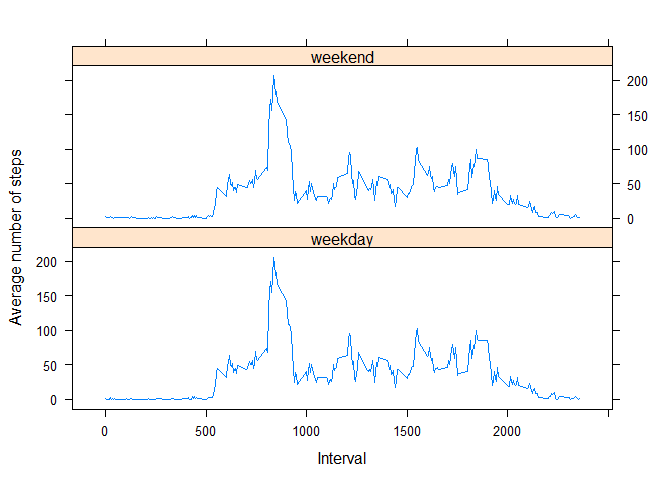
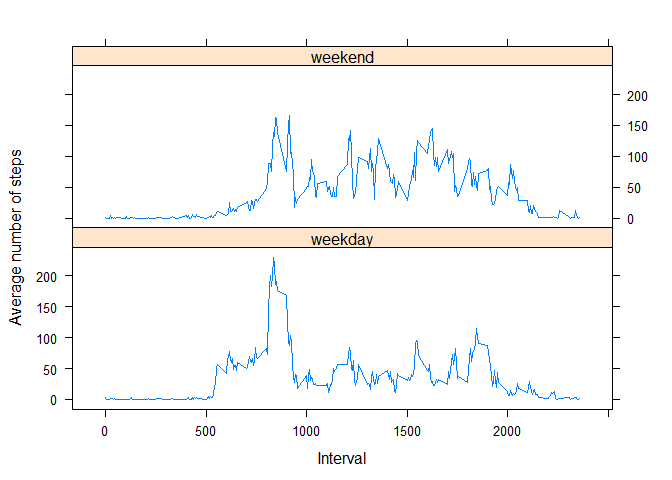
Nicer version

diff --git a/PA1_template.html b/PA1_template.html
@@ -64,6 +64,7 @@ img {
 </div>
 
 
+<pre class="r"><code>options(scipen = 1, digits = 2)</code></pre>
 <div id="a.-introduction" class="section level2">
 <h2>A. Introduction</h2>
 <p>This is the first assignment for the course Reproducable Research of the John Hopkins Data Science Specialization.</p>
@@ -91,14 +92,14 @@ str(StepData)</code></pre>
 ##  $ interval: int  0 5 10 15 20 25 30 35 40 45 ...</code></pre>
 <p>Summary of the data to explore how many missing values there are.</p>
 <pre class="r"><code>summary(StepData)</code></pre>
-<pre><code>##      steps                date          interval     
-##  Min.   :  0.00   2012-10-01:  288   Min.   :   0.0  
-##  1st Qu.:  0.00   2012-10-02:  288   1st Qu.: 588.8  
-##  Median :  0.00   2012-10-03:  288   Median :1177.5  
-##  Mean   : 37.38   2012-10-04:  288   Mean   :1177.5  
-##  3rd Qu.: 12.00   2012-10-05:  288   3rd Qu.:1766.2  
-##  Max.   :806.00   2012-10-06:  288   Max.   :2355.0  
-##  NA's   :2304     (Other)   :15840</code></pre>
+<pre><code>##      steps              date          interval   
+##  Min.   :  0    2012-10-01:  288   Min.   :   0  
+##  1st Qu.:  0    2012-10-02:  288   1st Qu.: 589  
+##  Median :  0    2012-10-03:  288   Median :1178  
+##  Mean   : 37    2012-10-04:  288   Mean   :1178  
+##  3rd Qu.: 12    2012-10-05:  288   3rd Qu.:1766  
+##  Max.   :806    2012-10-06:  288   Max.   :2355  
+##  NA's   :2304   (Other)   :15840</code></pre>
 <p>The first analyzing of the data we do with the missing values deleted.</p>
 <pre class="r"><code>StepDataRemovedNA &lt;- StepData[which(!is.na(StepData$steps)),]</code></pre>
 </div>
@@ -117,11 +118,8 @@ str(StepData)</code></pre>
 <div id="calculate-and-report-the-mean-and-the-median-of-the-total-number-of-steps-taken-per-day" class="section level3">
 <h3>3. Calculate and report the mean and the median of the total number of steps taken per day</h3>
 <pre class="r"><code>MeanSteps &lt;- mean(TotalStepsPerDay, na.rm=TRUE)
-MedianSteps &lt;- median(TotalStepsPerDay, na.rm=TRUE)
-cat(&quot;Mean of the total steps taken per day = &quot;,  MeanSteps)</code></pre>
-<pre><code>## Mean of the total steps taken per day =  10766.19</code></pre>
-<pre class="r"><code>cat(&quot;Median of the total steps taken per day = &quot;,  MedianSteps)</code></pre>
-<pre><code>## Median of the total steps taken per day =  10765</code></pre>
+MedianSteps &lt;- median(TotalStepsPerDay, na.rm=TRUE)</code></pre>
+<p>Mean of the total steps taken per day = 10766.19 and the median of the total steps taken per day = 10765.</p>
 </div>
 </div>
 <div id="d.-daily-activity-pattern" class="section level2">
@@ -148,7 +146,8 @@ lines(MeanStepsInterval$interval, MeanStepsInterval$MeanSteps)</code></pre>
 <pre class="r"><code>MostSteps &lt;- MeanStepsInterval[which.max(MeanStepsInterval$MeanSteps),]
 cat(&quot;The interval with the most avarage steps is&quot;, MostSteps$interval, 
     &quot;with the avarge number of steps&quot;, MostSteps$MeanSteps)</code></pre>
-<pre><code>## The interval with the most avarage steps is 835 with the avarge number of steps 206.1698</code></pre>
+<pre><code>## The interval with the most avarage steps is 835 with the avarge number of steps 206</code></pre>
+<p>The interval with the most avarage steps is 835 with the avarage number of steps 206.17.</p>
 </div>
 </div>
 <div id="e.-imputing-missing-values" class="section level2">
@@ -204,23 +203,10 @@ hist(TotalStepsPerDayNew, 10,
 <p>Calculate and report the mean and the median of the total number of steps taken per day</p>
 <pre class="r"><code>MeanStepsNew &lt;- mean(TotalStepsPerDayNew)
 MedianStepsNew &lt;- median(TotalStepsPerDayNew)
-cat(&quot; Mean of the total steps taken per day with missing values removed = &quot;,  
-    MeanSteps, &quot;\n&quot;, 
-    &quot;Mean of the total steps taken per day with missing values filled =&quot;, MeanStepsNew)</code></pre>
-<pre><code>##  Mean of the total steps taken per day with missing values removed =  10766.19 
-##  Mean of the total steps taken per day with missing values filled = 10766.19</code></pre>
-<pre class="r"><code>cat(&quot; Median of the total steps taken per day with missing values removed = &quot;,
-    MedianSteps, &quot;\n&quot;, 
-    &quot;Median of the total steps taken per day with missing values filled =&quot;, MedianStepsNew)</code></pre>
-<pre><code>##  Median of the total steps taken per day with missing values removed =  10765 
-##  Median of the total steps taken per day with missing values filled = 10766.19</code></pre>
-<p>The difference between the missing values removed and the missing values replaced by the mean of the interval is:</p>
-<p>For the mean the difference is:</p>
-<pre class="r"><code>MeanStepsNew - MeanSteps</code></pre>
-<pre><code>## [1] 0</code></pre>
-<p>For the median the difference is:</p>
-<pre class="r"><code>MedianStepsNew - MedianSteps</code></pre>
-<pre><code>## [1] 1.188679</code></pre>
+DiffMean &lt;- MeanStepsNew - MeanSteps
+DiffMedian &lt;- MedianStepsNew - MedianSteps</code></pre>
+<p>Mean of the total steps taken per day with missing values removed = 10766.19 and the mean of the total steps taken per day with missing values filled = 10766.19. The difference is 0.</p>
+<p>The median of the total steps taken per day with missing values removed = 10765 and the median of the total steps taken per day with missing values filled = 10766.19. The difference is 1.19.</p>
 </div>
 </div>
 <div id="f.-are-there-differences-in-activity-patterns-between-weekdays-and-weekend" class="section level2">
@@ -237,15 +223,14 @@ StepDataNew[StepDataNew$day == &quot;zondag&quot; | StepDataNew$day == &quot;zat
 StepDataNew[!(StepDataNew$day == &quot;zondag&quot; | StepDataNew$day == &quot;zaterdag&quot;), 5] &lt;- factor(&quot;weekday&quot;)</code></pre>
 <pre class="r"><code>## Calculate avarage steps per weekday/weekend and per interval
 MeanStepsWeekday &lt;- aggregate(x=list(MeanSteps=StepDataNew$steps), 
-                                 by=list(wd = StepDataNew$wd, interval=StepDataNew$interval), 
-
-                              FUN=mean)
+                                 by=list(wd = StepDataNew$week_weekend, interval=StepDataNew$interval), 
+                                 FUN=mean)
 ## Create plot using Lattice
 library(lattice)
 xyplot(MeanSteps ~ interval| wd, data = MeanStepsWeekday, 
        xlab=&quot;Interval&quot;, ylab=&quot;Average number of steps&quot;,
        layout = c(1,2), type = &quot;l&quot;)</code></pre>
[2 lines of base64/hex data omitted]
 <p>From the graphs we learn that the activity during the day on weekends and weekdays is different.</p>
 </div>
 

diff --git a/PA1_template.md b/PA1_template.md
@@ -1,5 +1,10 @@
 # Reproducible Research: Peer Assessment 1
 
+
+```r
+options(scipen = 1, digits = 2)
+```
+
 ## A. Introduction
 
 This is the first assignment for the course Reproducable Research of the John Hopkins Data Science Specialization.
@@ -44,14 +49,14 @@ summary(StepData)
 ```
 
 ```
-##      steps                date          interval     
-##  Min.   :  0.00   2012-10-01:  288   Min.   :   0.0  
-##  1st Qu.:  0.00   2012-10-02:  288   1st Qu.: 588.8  
-##  Median :  0.00   2012-10-03:  288   Median :1177.5  
-##  Mean   : 37.38   2012-10-04:  288   Mean   :1177.5  
-##  3rd Qu.: 12.00   2012-10-05:  288   3rd Qu.:1766.2  
-##  Max.   :806.00   2012-10-06:  288   Max.   :2355.0  
-##  NA's   :2304     (Other)   :15840
+##      steps              date          interval   
+##  Min.   :  0    2012-10-01:  288   Min.   :   0  
+##  1st Qu.:  0    2012-10-02:  288   1st Qu.: 589  
+##  Median :  0    2012-10-03:  288   Median :1178  
+##  Mean   : 37    2012-10-04:  288   Mean   :1178  
+##  3rd Qu.: 12    2012-10-05:  288   3rd Qu.:1766  
+##  Max.   :806    2012-10-06:  288   Max.   :2355  
+##  NA's   :2304   (Other)   :15840
 ```
 
 The first analyzing of the data we do with the missing values deleted.
@@ -86,20 +91,10 @@ hist(TotalStepsPerDay, 10, main = "Total steps per day", xlab = "")
 ```r
 MeanSteps <- mean(TotalStepsPerDay, na.rm=TRUE)
 MedianSteps <- median(TotalStepsPerDay, na.rm=TRUE)
-cat("Mean of the total steps taken per day = ",  MeanSteps)
 ```
 
-```
-## Mean of the total steps taken per day =  10766.19
-```
+Mean of the total steps taken per day =  10766.19 and the median of the total steps taken per day = 10765.
 
-```r
-cat("Median of the total steps taken per day = ",  MedianSteps)
-```
-
-```
-## Median of the total steps taken per day =  10765
-```
 
 ## D. Daily activity pattern
 
@@ -142,9 +137,12 @@ cat("The interval with the most avarage steps is", MostSteps$interval,
 ```
 
 ```
-## The interval with the most avarage steps is 835 with the avarge number of steps 206.1698
+## The interval with the most avarage steps is 835 with the avarge number of steps 206
 ```
 
+The interval with the most avarage steps is 835 with the avarage number of steps 206.17.
+
+    
 ## E. Imputing missing values
 
 ### 1.Total number of missing values in the dataset for steps. 
@@ -227,48 +225,14 @@ Calculate and report the mean and the median of the total number of steps taken 
 ```r
 MeanStepsNew <- mean(TotalStepsPerDayNew)
 MedianStepsNew <- median(TotalStepsPerDayNew)
-cat(" Mean of the total steps taken per day with missing values removed = ",  
-    MeanSteps, "\n", 
-    "Mean of the total steps taken per day with missing values filled =", MeanStepsNew)
+DiffMean <- MeanStepsNew - MeanSteps
+DiffMedian <- MedianStepsNew - MedianSteps
 ```
 
-```
-##  Mean of the total steps taken per day with missing values removed =  10766.19 
-##  Mean of the total steps taken per day with missing values filled = 10766.19
-```
+Mean of the total steps taken per day with missing values removed = 10766.19 and the mean of the total steps taken per day with missing values filled = 10766.19. The difference is 0.
 
-```r
-cat(" Median of the total steps taken per day with missing values removed = ",
-    MedianSteps, "\n", 
-    "Median of the total steps taken per day with missing values filled =", MedianStepsNew)
-```
+The median of the total steps taken per day with missing values removed = 10765 and the median of the total steps taken per day with missing values filled = 10766.19. The difference is 1.19.
 
-```
-##  Median of the total steps taken per day with missing values removed =  10765 
-##  Median of the total steps taken per day with missing values filled = 10766.19
-```
-
-The difference between the missing values removed and the missing values replaced by the mean of the interval is:
-
-For the mean the difference is:
-
-```r
-MeanStepsNew - MeanSteps
-```
-
-```
-## [1] 0
-```
-
-For the median the difference is:
-
-```r
-MedianStepsNew - MedianSteps
-```
-
-```
-## [1] 1.188679
-```
 
 ## F. Are there differences in activity patterns between weekdays and weekend?
 
@@ -292,9 +256,8 @@ StepDataNew[!(StepDataNew$day == "zondag" | StepDataNew$day == "zaterdag"), 5] <
 ```r
 ## Calculate avarage steps per weekday/weekend and per interval
 MeanStepsWeekday <- aggregate(x=list(MeanSteps=StepDataNew$steps), 
-                                 by=list(wd = StepDataNew$wd, interval=StepDataNew$interval), 
-
-                              FUN=mean)
+                                 by=list(wd = StepDataNew$week_weekend, interval=StepDataNew$interval), 
+                                 FUN=mean)
 ## Create plot using Lattice
 library(lattice)
 xyplot(MeanSteps ~ interval| wd, data = MeanStepsWeekday, 
